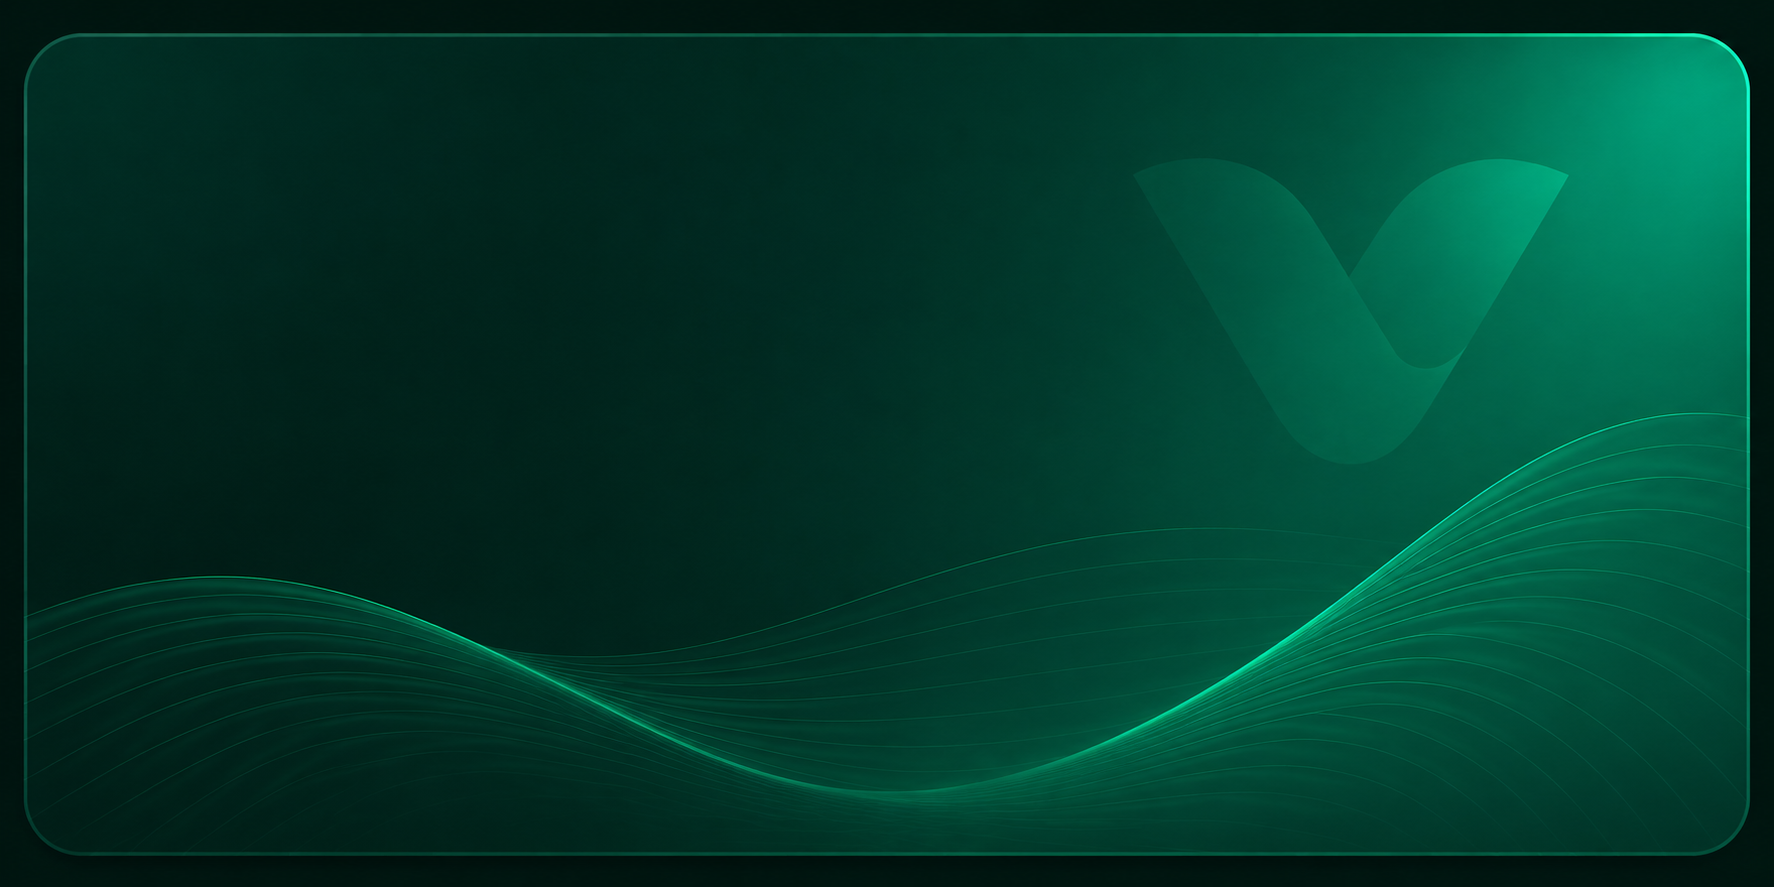
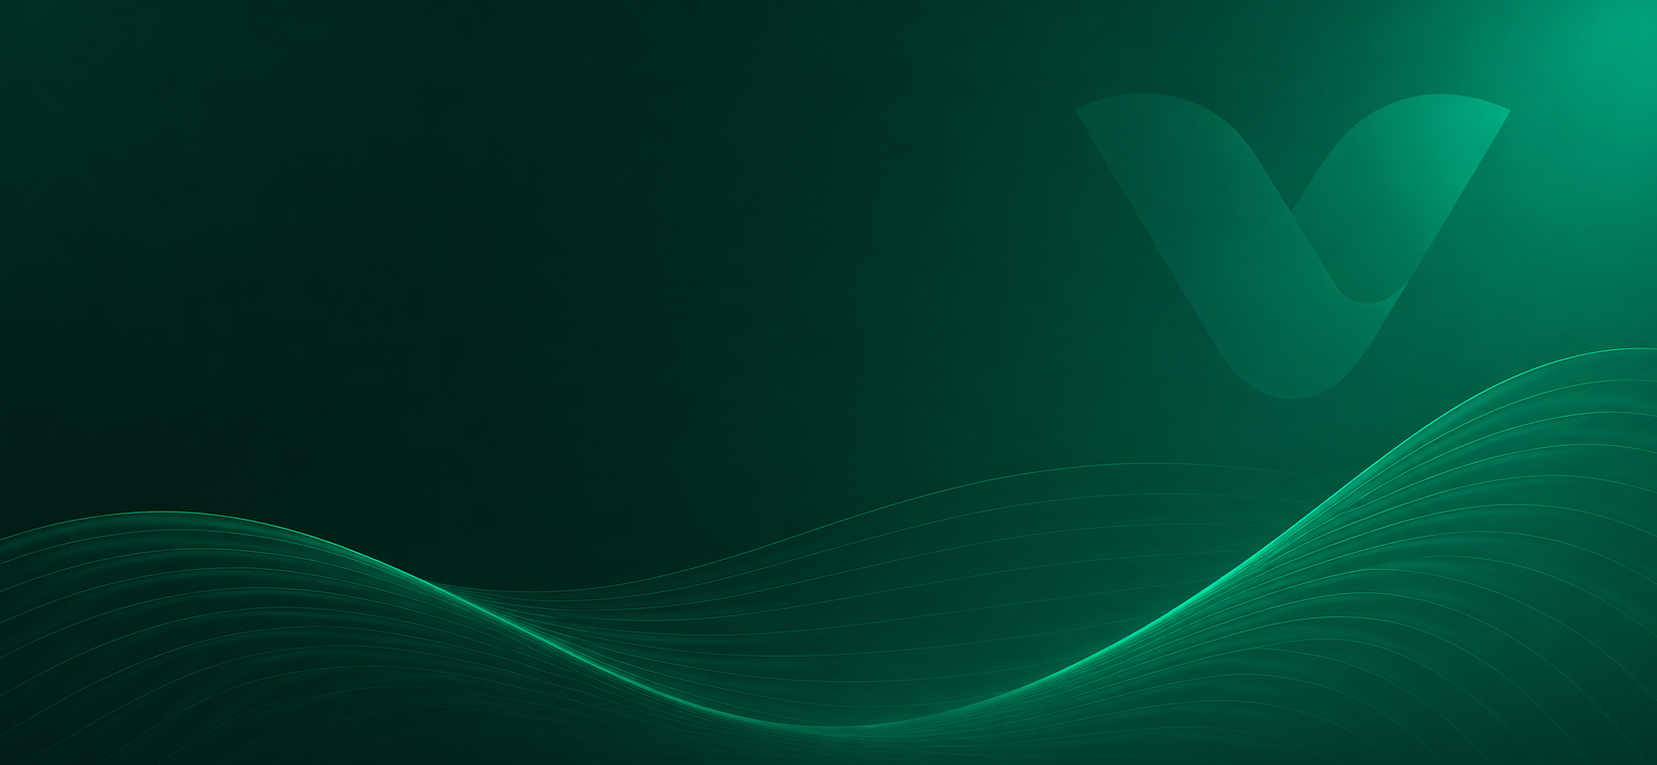
balance card

diff --git a/src/components/homeScreen/Balancecard.tsx b/src/components/homeScreen/Balancecard.tsx
@@ -3,14 +3,14 @@ import { Ionicons, MaterialCommunityIcons } from "@expo/vector-icons";
 
 export default function BalanceCard() {
   return (
-    <View className="mx-5 mt-3 rounded-2xl overflow-hidden">
+    <View className="mx-5 mt-3 rounded-2xl border border-vuior-green-800 overflow-hidden">
       <ImageBackground
-        source={require("../../../assets/balance-bg.png")}
+        source={require("../../../assets/new-bg.png")}
         className="rounded-2xl overflow-hidden"
-        resizeMode="cover"
+        resizeMode="stretch"
+        imageStyle={{ borderRadius: 16 }}
       >
-        {/* Dark overlay for readability */}
-        <View className="bg-vuior-glass-green rounded-2xl p-5">
+        <View className="rounded-2xl p-5">
           {/* Top Row */}
           <View className="flex-row items-center justify-between mb-3">
             <View className="flex-row items-center gap-x-2">
